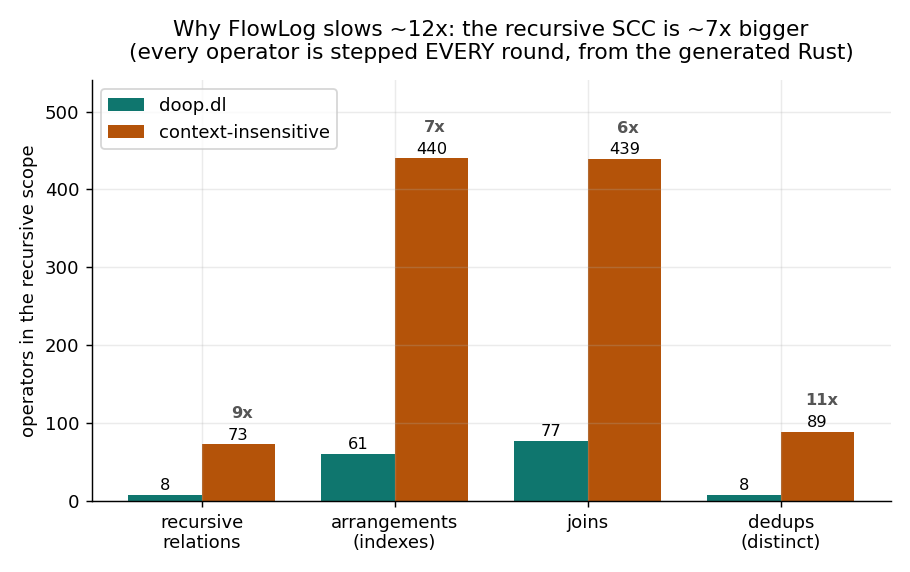
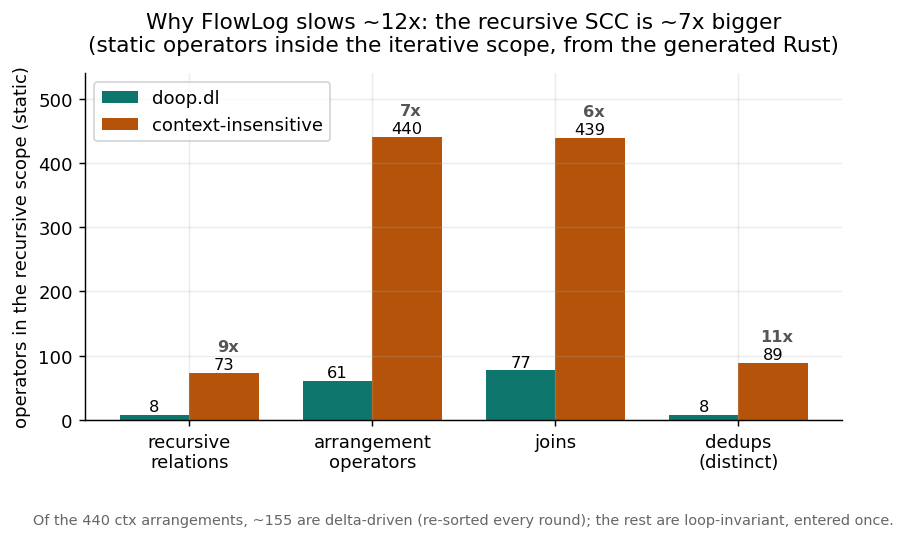
docs(ctx): reconcile arrangement count with #11 (440 static vs ~155 live)
The recursive SCC has 440 arrangement OPERATORS (static, ~7x doop.dl's 61), but
only ~155 are delta-driven and re-sorted every round — the rest are loop-invariant
indexes entered once. ~155 == PR #11's profiler "live arrangements" figure; same
scope, different cut. Corrects the earlier "all 440 maintained every round" wording
in findings.md, doop_baseline.csv, and the census plot caption.

Changed region(s): [[0.0, 0.1185, 0.9879, 0.9778], [0.0926, 0.0, 0.957, 0.1185], [0.2161, 0.6222, 0.2778, 0.6519]]

diff --git a/docs/context_insensitive/findings.md b/docs/context_insensitive/findings.md
@@ -35,10 +35,13 @@ Reproduce: `make` n/a — `bash scripts/context_insensitive_compare.sh` (reads
   is **not** FlowLog-specific — a 1→9-rule micro-benchmark scales FlowLog **7.2×** and
   Soufflé **6.6×** alike; (ii) the artifact shows the real driver — the context-
   insensitive VarPointsTo fixpoint is **one iterative scope with 73 co-recursive
-  relations / 440 arrangements / 439 joins, vs doop.dl's 8 / 61 / 77 (~7×)**, all
-  stepped **every round** (~50). FlowLog's cost ≈ SCC-operators × rounds, so ~7× more
-  operators ≈ the ~12×. Arity-4 dead columns add only ~15 % (mostly memory); the new
-  aggregates are one-shot. See *Why slower than the old `doop.dl`* below + plots.
+  relations / 440 arrangement operators / 439 joins, vs doop.dl's 8 / 61 / 77 (~7×)**.
+  Of those, the **delta-driven subset re-sorted every round (~50)** is what #11's
+  profiler counts as **~155 live arrangements** (the rest are loop-invariant indexes
+  `enter()`ed once); both numbers describe the same ~7× bloated recursive scope.
+  FlowLog's cost ≈ (live SCC operators) × rounds, so the ~7× ≈ the ~12×. Arity-4 dead
+  columns add only ~15 % (mostly memory); the new aggregates are one-shot. See *Why
+  slower than the old `doop.dl`* below + plots.
 - **jython** is pathological for *both* engines (~150–180 GB). FlowLog OOMs at
   `-w32` (knife-edge 178 GB) but **completes at `-w16` / `-w8`** (171 GB); the
   matched Soufflé run was still going at 150 GB / 22 min when stopped, so jython
@@ -180,22 +183,25 @@ recursive relation compiles to **one shared arrangement and one dedup**: the cod
 CSEs arrangements (438/440 distinct — no per-rule rebuild) and emits a single
 `threshold_semigroup` after `concat`-ing all a relation's rules. (So an earlier
 "per-rule index" guess was wrong.) What actually explodes is the **size of the
-recursive SCC**. Census of the generated VarPointsTo fixpoint — every operator is
-stepped **every round** (~50):
+recursive SCC**. Census of the generated VarPointsTo fixpoint — static operator count
+in the recursive scope (lines counted strictly inside the `iterative(|inner| …)`
+closure):
 
-| per-round operator | doop.dl | context-insensitive | ratio |
+| operator in recursive scope | doop.dl | context-insensitive | ratio |
 |--------------------|---------|---------------------|-------|
 | recursive relations (`Variable`) | 8 | 73 | 9× |
-| arrangements (indexes) | 61 | 440 | 7× |
+| arrangement operators | 61 | 440 | 7× |
 | joins (`join_core`) | 77 | 439 | 6× |
 | dedups (`threshold`) | 8 | 89 | 11× |
 
 ![scc](plots/scc_operator_census.png)
 
-The context-insensitive points-to fixpoint is **one iterative scope with 73
-co-recursive relations, 440 indexes, and 439 joins — ~7× doop.dl's — all maintained
-every round**. FlowLog's solve ≈ (SCC operators) × rounds × per-operator cost, so a
-~7× bigger SCC ≈ the ~12× (the rest from bigger relations / more rounds / the +15 %
+The context-insensitive points-to fixpoint is **one iterative scope ~7× bigger than
+doop.dl's**. Not all 440 arrangement operators are re-sorted each round: ~200 are
+loop-invariant indexes `enter()`ed once and reused, while the **delta-driven subset
+re-sorted every iteration is ~155** (the number #11's profiler reports as "live
+arrangements" — consistent, just a different cut of the same scope). FlowLog's solve ≈
+(live SCC operators) × rounds × per-operator cost, so a ~7× bigger SCC ≈ the ~12× (the rest from bigger relations / more rounds / the +15 %
 width). This is the real answer: not rule count, not the answer size — the **operator
 count of the recursive scope**.
 
@@ -220,8 +226,9 @@ recursive relations); redundant arrangements (CSE'd by the codegen).
    a few rounds instead of iterating ~50× alongside the whole 440-arrangement loop.
 2. **Lighter arrangements/dedup in `datalog-batch` mode.** Batch only needs the final
    set, yet the generated loop uses differential's per-iteration trace machinery for
-   all 440 arrangements + 89 `threshold`s. A flat "current-set" index/distinct for
-   batch mode would cut the per-operator constant that the SCC size multiplies.
+   the ~155 delta-driven arrangements + 89 `threshold`s (out of 440 total). A flat
+   "current-set" index/distinct for batch mode would cut the per-operator constant that
+   the SCC size multiplies.
 3. **Emit DOOP's `.plan` join-order hints** (FlowLog supports `.plan`) — closes
    Soufflé's tuning advantage at equal engine.
 4. **Drop the two constant context columns** (arity-4 → arity-2) — ~15 %, mostly memory.
